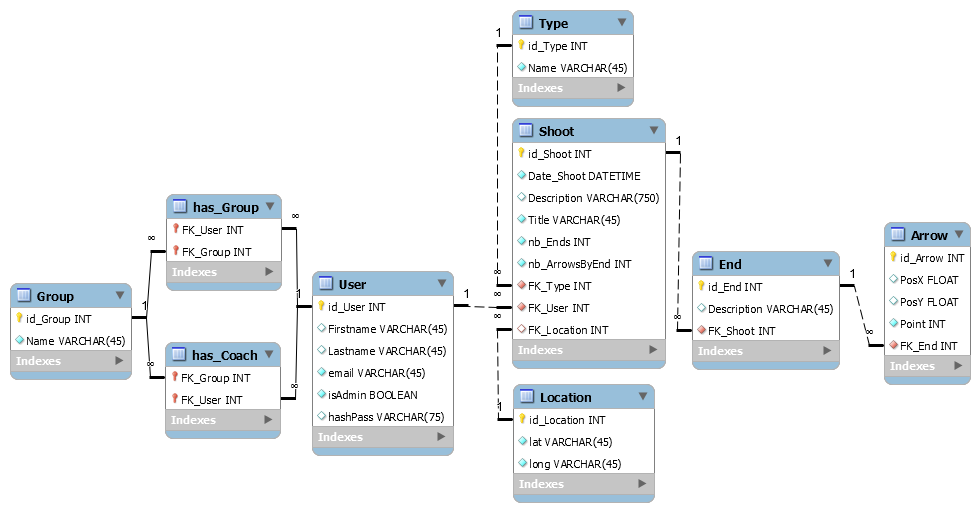
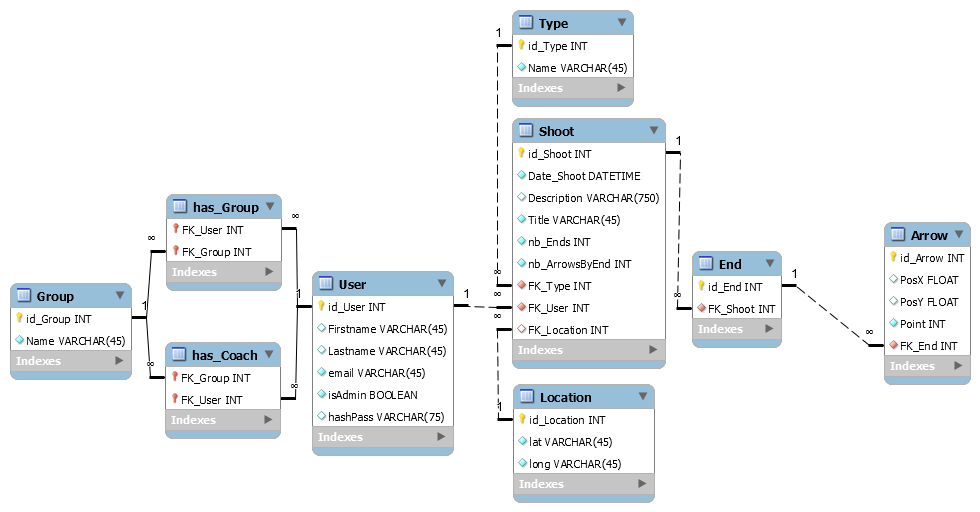
~Db ~Shoots controller

Changed region(s): [[0.6735, 0.5938, 0.8571, 0.75], [0.7959, 0.4688, 0.8878, 0.5625]]

diff --git a/Sources/Site/api/controllers/shoots.js b/Sources/Site/api/controllers/shoots.js
@@ -6,27 +6,32 @@ var store = require('../dal')(require('../config/configs.json').db)
 router.get('/', function (req, res, next) {
     var Shoots = [];
     store.repositories.shoots.get({
-        //TODO : Mettre variable user de session ?
         id_User: 1
     }).then(function (shoots) {
-        shoots.forEach(function (shoot) {
+        var i = 0;
+        shoots.forEach((shoot, index, array) => {
             store.repositories.ends.get({
                     id_Shoot: shoot.id_Shoot
                 })
                 .then(function (ends) {
-                    shoot.nb_EndsReal = ends.length
-                    Shoots.push(shoot)
+                    if (ends.length == shoot.dataValues.nb_Ends) {
+                        shoot.dataValues.finished = true
+                    } else {
+                        shoot.dataValues.finished = false
+                    }
+                    Shoots.push(shoot.dataValues)
+                    i++
+                    if (i === array.length) {
+                        callback();
+                    }
                 })
-        }, this);
-    }).then(function () {
-        //TODO : Controller Shoots à mettre en forme pour res JSON
-        console.log(Shoots)
+        });
+
+        function callback() {
+            res.send(Shoots)
+        }
     })
     //TODO:On gère tout les shoots en calculant si le nb_Ends correspond au nombre réel de End relié au Shoot !!
-    res.json({
-        title: 'Express',
-        idUser: req.params.idUser
-    });
 });
 
 router.get('/:idShoot', function (req, res, next) {
@@ -34,15 +39,11 @@ router.get('/:idShoot', function (req, res, next) {
         //TODO : Mettre variable user session ?
         id_User: 1,
         id_Shoot: req.params.idShoot
-    }).then(function (shoots) {
-        shoots.forEach(function (shoot) {
-            console.log("Second : " + shoot.Title)
-        }, this);
     })
-    res.json({
-        title: 'Express',
-        idUser: req.session.user
-    });
 });
 
+
+function send(Shoots, res) {
+    res.send(Shoots)
+}
 module.exports = router;

diff --git a/Sources/Cli/test.js b/Sources/Cli/test.js
@@ -22,17 +22,23 @@ var Shoots = [];
 store.repositories.shoots.get({
     id_User: 1
 }).then(function (shoots) {
-    shoots.forEach(function (shoot) {
+    var i = 0;
+    shoots.forEach((shoot, index, array) => {
         store.repositories.ends.get({
-            id_Shoot: shoot.id_Shoot
-        })
-        .then(function(ends){
-            shoot.nb_EndsReal = ends.length
-            Shoots.push(shoot)
-        })
-    }, this);
-}).then(function() {
-    console.log(Shoots)
+                id_Shoot: shoot.id_Shoot
+            })
+            .then(function (ends) {
+                shoot.dataValues.nb_EndsReal = ends.length
+                Shoots.push(shoot.dataValues)
+                i++
+                if (i === array.length) {
+                    callback();
+                }
+            })
+    });
+    function callback(){
+        console.log(Shoots)
+    }
 })
 
 // store.repositories.shoots.get({FK_User: 123})

diff --git a/Sources/Site/api/dal/repository/definition/shoots.js b/Sources/Site/api/dal/repository/definition/shoots.js
@@ -10,7 +10,7 @@ module.exports = function (props) {
                     attributes: ['id_Shoot', 'Title', 'Description', 'Date_Shoot', 'FK_Type', 'nb_Ends']
                 })
             } else {
-                return props.store.models.Shoot.findAll({
+                return props.store.models.Shoot.find({
                     where: {
                         id_Shoot: params.id_Shoot
                     }

diff --git a/Sources/Site/api/dal/repository/definition/ends.js b/Sources/Site/api/dal/repository/definition/ends.js
@@ -5,8 +5,7 @@ module.exports = function (props) {
                 return props.store.models.End.findAll({
                     where: {
                         FK_Shoot: params.id_Shoot
-                    },
-                    attributes: ['id_End']
+                    }
                 })
         },
         add: function (params) {

diff --git a/Sources/Site/api/dal/models/definition/End.js b/Sources/Site/api/dal/models/definition/End.js
@@ -7,10 +7,6 @@ module.exports = function (store, sequelize, SeqInit) {
             primaryKey: true,
             autoIncrement:true
         },
-        Description: {
-            type: SeqInit.TEXT,
-            allowNull: true
-        },
         FK_Shoot: {
             type: SeqInit.INTEGER,
             allowNull: false,
